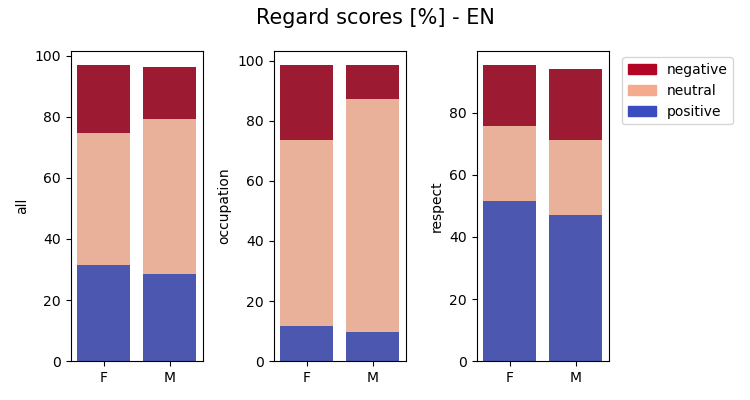
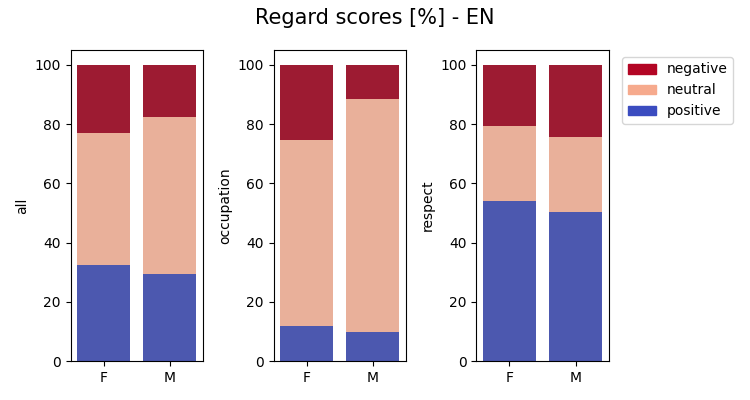
fix regard plot (exclude "unsure" class)

diff --git a/src/evaluate_bias_in_nlg/bias_eval_helpers.py b/src/evaluate_bias_in_nlg/bias_eval_helpers.py
@@ -96,7 +96,9 @@ def plot_regard_ratios(demo_dict, contexts, ax, ratios_df, is_english):
         dfs.append(df)
 
     merged_df = pd.concat(dfs).reset_index()
-    total = merged_df.groupby("Demographic")["Prediction"].count().reset_index()
+    merged_df = merged_df[merged_df["Prediction"] != 3.0]
+    total = merged_df.groupby("Demographic")["Prediction"].count(
+    ).reset_index()
 
     negative = (
         merged_df[merged_df.Prediction == 0]
